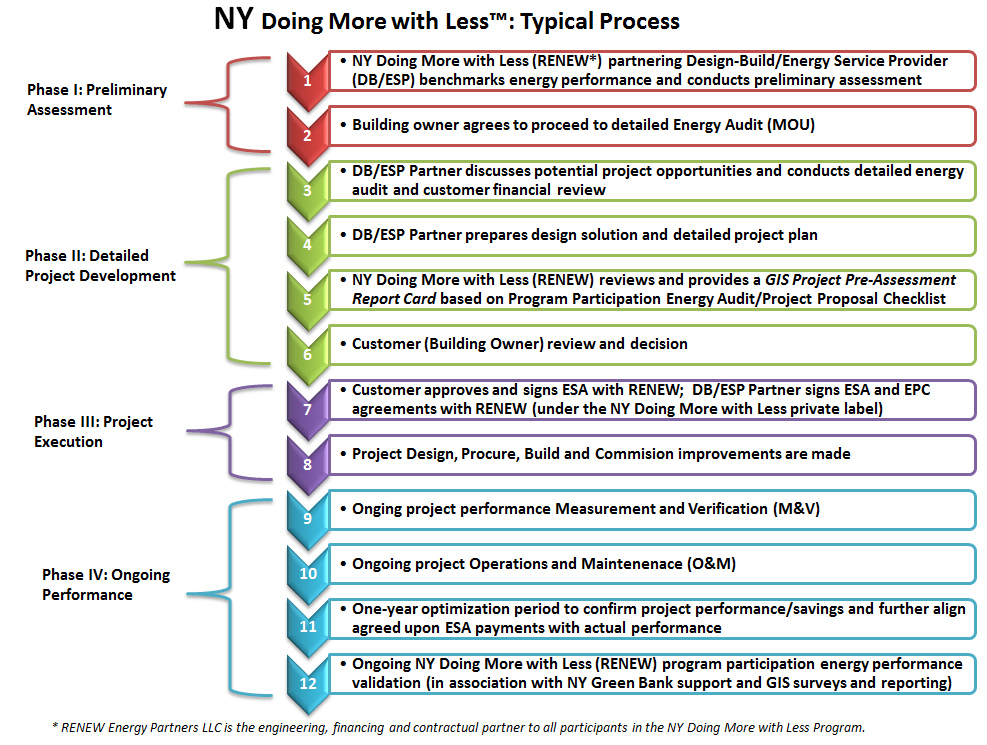
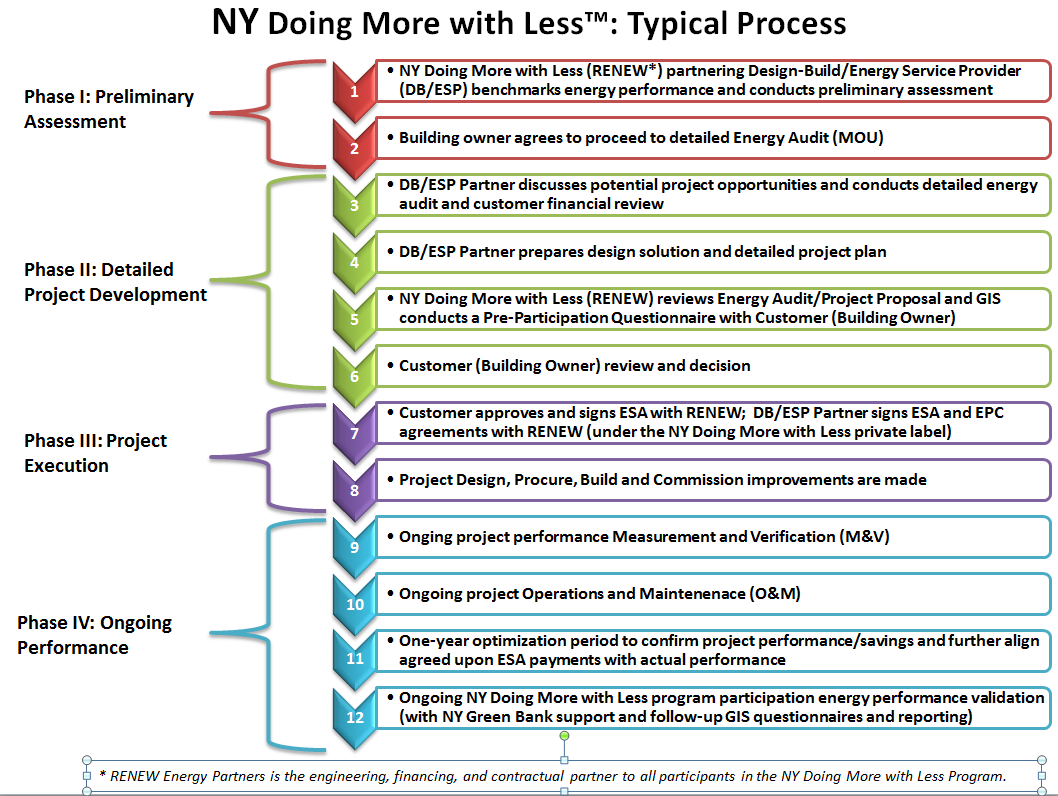
new image and typos

diff --git a/About.html b/About.html
@@ -69,23 +69,26 @@
             <div class="container">
 <img src="assets/GBDMwL Logo.png" height="100 px" alt="NYDMwL Logo"> </p>
 <h1 id="about-ny-doing-more-with-less-">About NY Doing More with Less™</h1>
-<p>NY Doing More with Less is a joint venture between RENEW Energy Partners LLC and Green Bank Partners, with specialty finance from Advanced Energy Capital and essential support from the NY Green Bank and RIT’s Golisano Institute for Sustainability.</p>
+<p>NY Doing More with Less is a joint venture between RENEW Energy Partners LLC and Green Bank Partners, with essential support from the NY Green Bank and RIT’s Golisano Institute for Sustainability.</p>
 <p>Focused on building a more innovative business ecosystem for energy efficiency throughout New York State, our enterprise primarily works with Design-Build firms/Energy Service Providers (ESPs) to help them leverage our innovative deal structure and funding platform to better serve and grow the marketplace with a turnkey energy-efficiency-as-a-service contracting approach.</p>
 <p>Working in partnership with ESPs, we help business owners and managers to better understand, <em>trust</em>, and successfully leverage energy efficient technologies, project management, and innovative financing to generate positive cash flow from day one of a building upgrade or energy infrastructure project.</p>
 <hr>
-<p><img src="assets/Advanced Energy Capital logo.png" height="100 px" alt="advanced energy capital logo"> </p>
-<p>Advanced Energy Capital (AEC) is a specialty finance firm dedicated to providing affordable and innovative financing solutions to the Renewable Energy, Energy Storage and Energy Efficiency industries, as well as the Retail Energy Provider industry. AEC’s investments include capital placement geared towards platform and development companies as well as project finance.</p>
+<!-- 
+<img src="assets/Advanced Energy Capital logo.png" height="100 px" alt="advanced energy capital logo"> 
+
+Advanced Energy Capital (AEC) is a specialty finance firm dedicated to providing affordable and innovative financing solutions to the Renewable Energy, Energy Storage and Energy Efficiency industries, as well as the Retail Energy Provider industry. AEC’s investments include capital placement geared towards platform and development companies as well as project finance.
 <h4>
 
 
-<a href="http://www.advancedenergycap.com/">www.advancedenergycap.com/</a>
+[www.advancedenergycap.com/](http://www.advancedenergycap.com/)
 
 
 </h4>
 
 
-<hr>
-<p><img src="assets/GBP Logo.png" height="80 px" alt="GBP Logo"> </p>
+***
+ -->
+<p> <img src="assets/GBP Logo.png" height="80 px" alt="GBP Logo"> </p>
 <h2 id="green-bank-partners">Green Bank Partners</h2>
 <p>Green Bank Partners brings experience advancing energy efficiency tied to performance-based savings, cost-effective lighting and HVAC retrofits with a measurable ROI and definable payback periods. Green Bank Partners leads the market outreach and business development functions for NY Doing More with Less and is both the operational liaison with the NY Green Bank and RIT’s GIS, as well as the point of contact for all inquiries to the NY Doing More with Less partnering team.</p>
 <h4>
@@ -160,8 +163,7 @@ An experienced entrepreneur, Jim founded PubWeb and served as the first marketin
                               <h5>Charlie Lord</h5>
                               <small>Principal<br>RENEW Energy Partners LLC</small>
                               <hr>
-                              <p class="short_bio"><br>
-Charlie is a principal at RENEW Energy Partners LLC, the engineering, financing, and contractual partner to all participants in the NY Doing More with Less Program. Prior to RENEW, Charlie was at C-Quest Capital, LLC (CQC) a carbon finance business dedicated to originating and developing high-quality emission reduction projects that provide superior returns for investors and energy services to low-income communities in Africa, India and Latin America. Charlie helped launch CQC’s Global Cook Stoves Program.
+                              <p class="short_bio"><br>Charlie is a principal at RENEW Energy Partners LLC, the engineering, financing, and contractual partner to all participants in the NY Doing More with Less Program. Prior to RENEW, Charlie was at C-Quest Capital, LLC (CQC) a carbon finance business dedicated to originating and developing high-quality emission reduction projects that provide superior returns for investors and energy services to low-income communities in Africa, India and Latin America. Charlie helped launch CQC’s Global Cook Stoves Program.
 
 <br>
 

diff --git a/TypicalProjectProfile.html b/TypicalProjectProfile.html
@@ -92,11 +92,8 @@
 <li>Has an average simple payback of between 2 years and 5 years; longer paybacks can be addressed with longer deal terms</li>
 <li>May include multiple measures under a single ESA or may be for one measure, with the flexibility to add more later</li>
 </ul>
-<p><i></p>
-<ul>
-<li>RENEW Energy Partners LLC is the engineering, financing and contractual partner to all participants in the NY Doing More with Less Program.</li>
-</ul>
-<p></i></p>
+<p><i> * RENEW Energy Partners LLC is the engineering, financing and contractual partner to all participants in the NY Doing More with Less Program.
+</i></p>
 <button onclick="goBack()" type="button" class="btn btn-default" aria-label="Go Back">
   <span class="glyphicon glyphicon-arrow-left" aria-hidden="true"></span>
  <h4>Go Back</h4>

diff --git a/src/About.md b/src/About.md
@@ -16,13 +16,14 @@
 
 # About NY Doing More with Less™
 
-NY Doing More with Less is a joint venture between RENEW Energy Partners LLC and Green Bank Partners, with specialty finance from Advanced Energy Capital and essential support from the NY Green Bank and RIT’s Golisano Institute for Sustainability.
+NY Doing More with Less is a joint venture between RENEW Energy Partners LLC and Green Bank Partners, with essential support from the NY Green Bank and RIT’s Golisano Institute for Sustainability.
 
 
 Focused on building a more innovative business ecosystem for energy efficiency throughout New York State, our enterprise primarily works with Design-Build firms/Energy Service Providers (ESPs) to help them leverage our innovative deal structure and funding platform to better serve and grow the marketplace with a turnkey energy-efficiency-as-a-service contracting approach.
 
 Working in partnership with ESPs, we help business owners and managers to better understand, *trust*, and successfully leverage energy efficient technologies, project management, and innovative financing to generate positive cash flow from day one of a building upgrade or energy infrastructure project.
 ***
+<!-- 
 <img src="assets/Advanced Energy Capital logo.png" height="100 px" alt="advanced energy capital logo"> 
 
 Advanced Energy Capital (AEC) is a specialty finance firm dedicated to providing affordable and innovative financing solutions to the Renewable Energy, Energy Storage and Energy Efficiency industries, as well as the Retail Energy Provider industry. AEC’s investments include capital placement geared towards platform and development companies as well as project finance.
@@ -36,7 +37,8 @@ Advanced Energy Capital (AEC) is a specialty finance firm dedicated to providing
 
 
 ***
-<img src="assets/GBP Logo.png" height="80 px" alt="GBP Logo"> 
+ -->
+ <img src="assets/GBP Logo.png" height="80 px" alt="GBP Logo"> 
 
 
 ## Green Bank Partners
@@ -126,7 +128,6 @@ An experienced entrepreneur, Jim founded PubWeb and served as the first marketin
                               <small>Principal<br>RENEW Energy Partners LLC</small>
                               <hr>
                               <p class="short_bio">  
-
 Charlie is a principal at RENEW Energy Partners LLC, the engineering, financing, and contractual partner to all participants in the NY Doing More with Less Program. Prior to RENEW, Charlie was at C-Quest Capital, LLC (CQC) a carbon finance business dedicated to originating and developing high-quality emission reduction projects that provide superior returns for investors and energy services to low-income communities in Africa, India and Latin America. Charlie helped launch CQC’s Global Cook Stoves Program.
 
 <br>

diff --git a/src/TypicalProjectProfile.md b/src/TypicalProjectProfile.md
@@ -38,10 +38,7 @@
 * Has an average simple payback of between 2 years and 5 years; longer paybacks can be addressed with longer deal terms
 * May include multiple measures under a single ESA or may be for one measure, with the flexibility to add more later
 
-<i>
-
-* RENEW Energy Partners LLC is the engineering, financing and contractual partner to all participants in the NY Doing More with Less Program.
-
+<i> * RENEW Energy Partners LLC is the engineering, financing and contractual partner to all participants in the NY Doing More with Less Program.
 </i>
 
 
